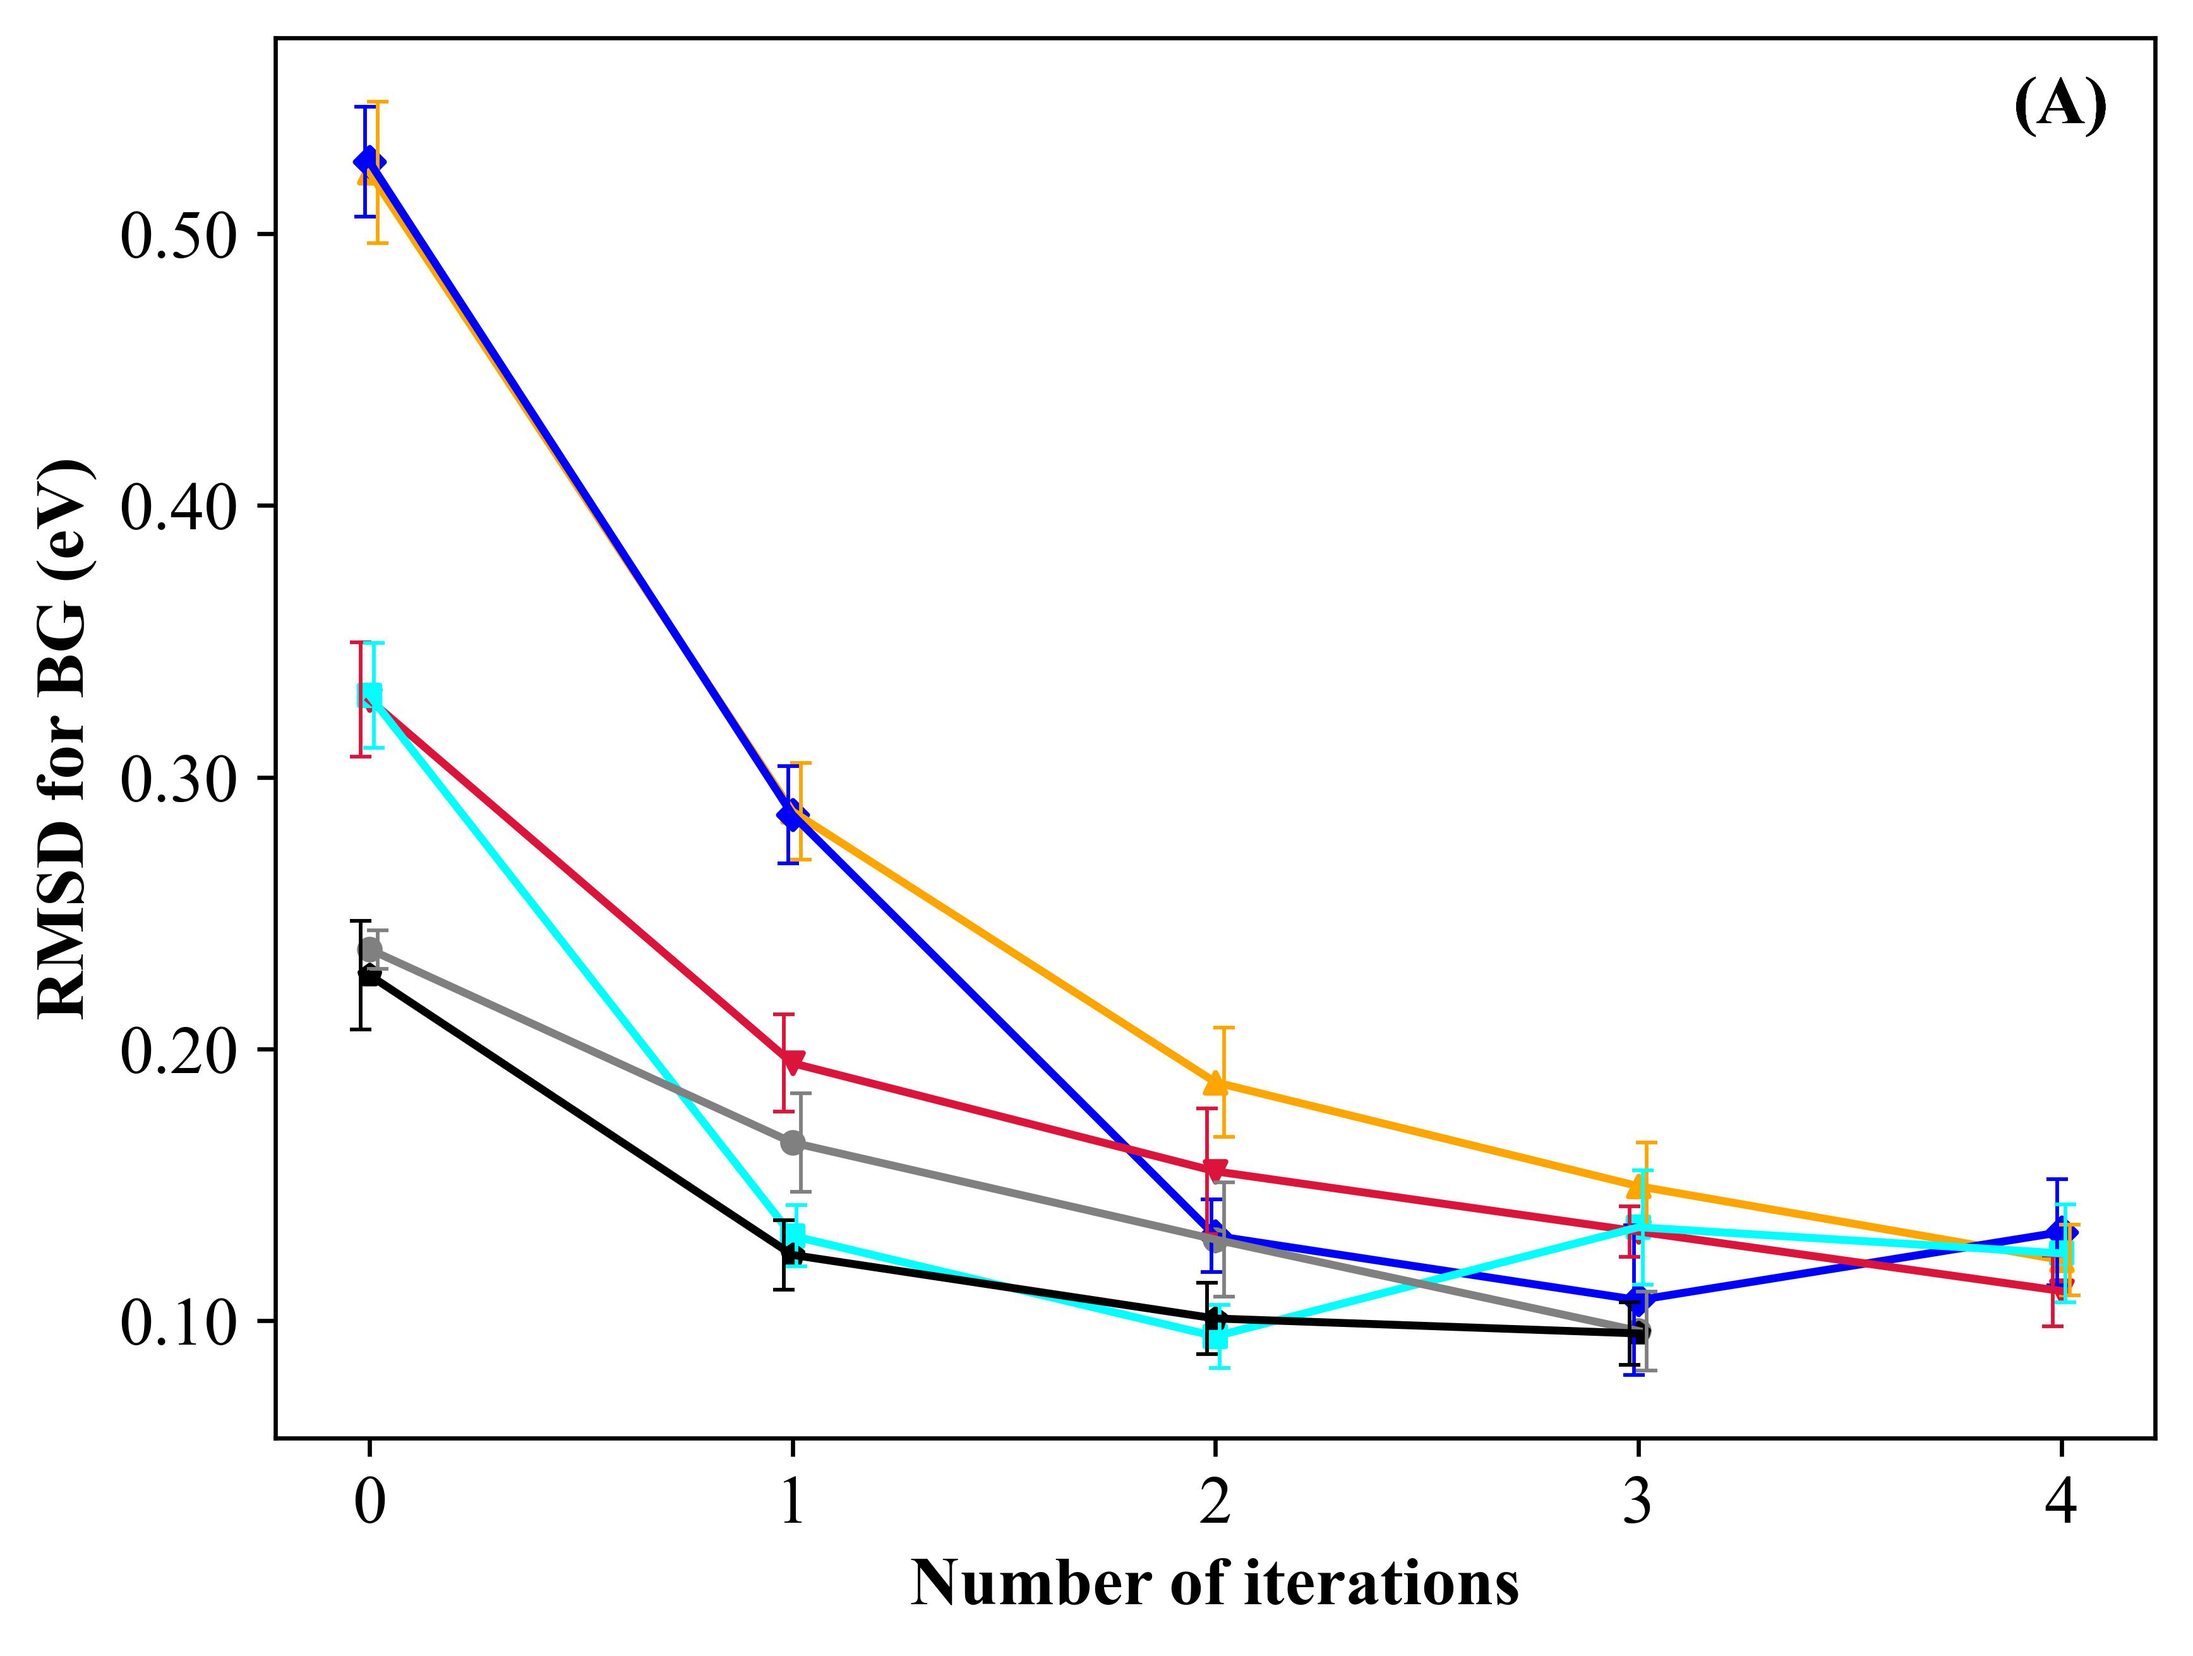
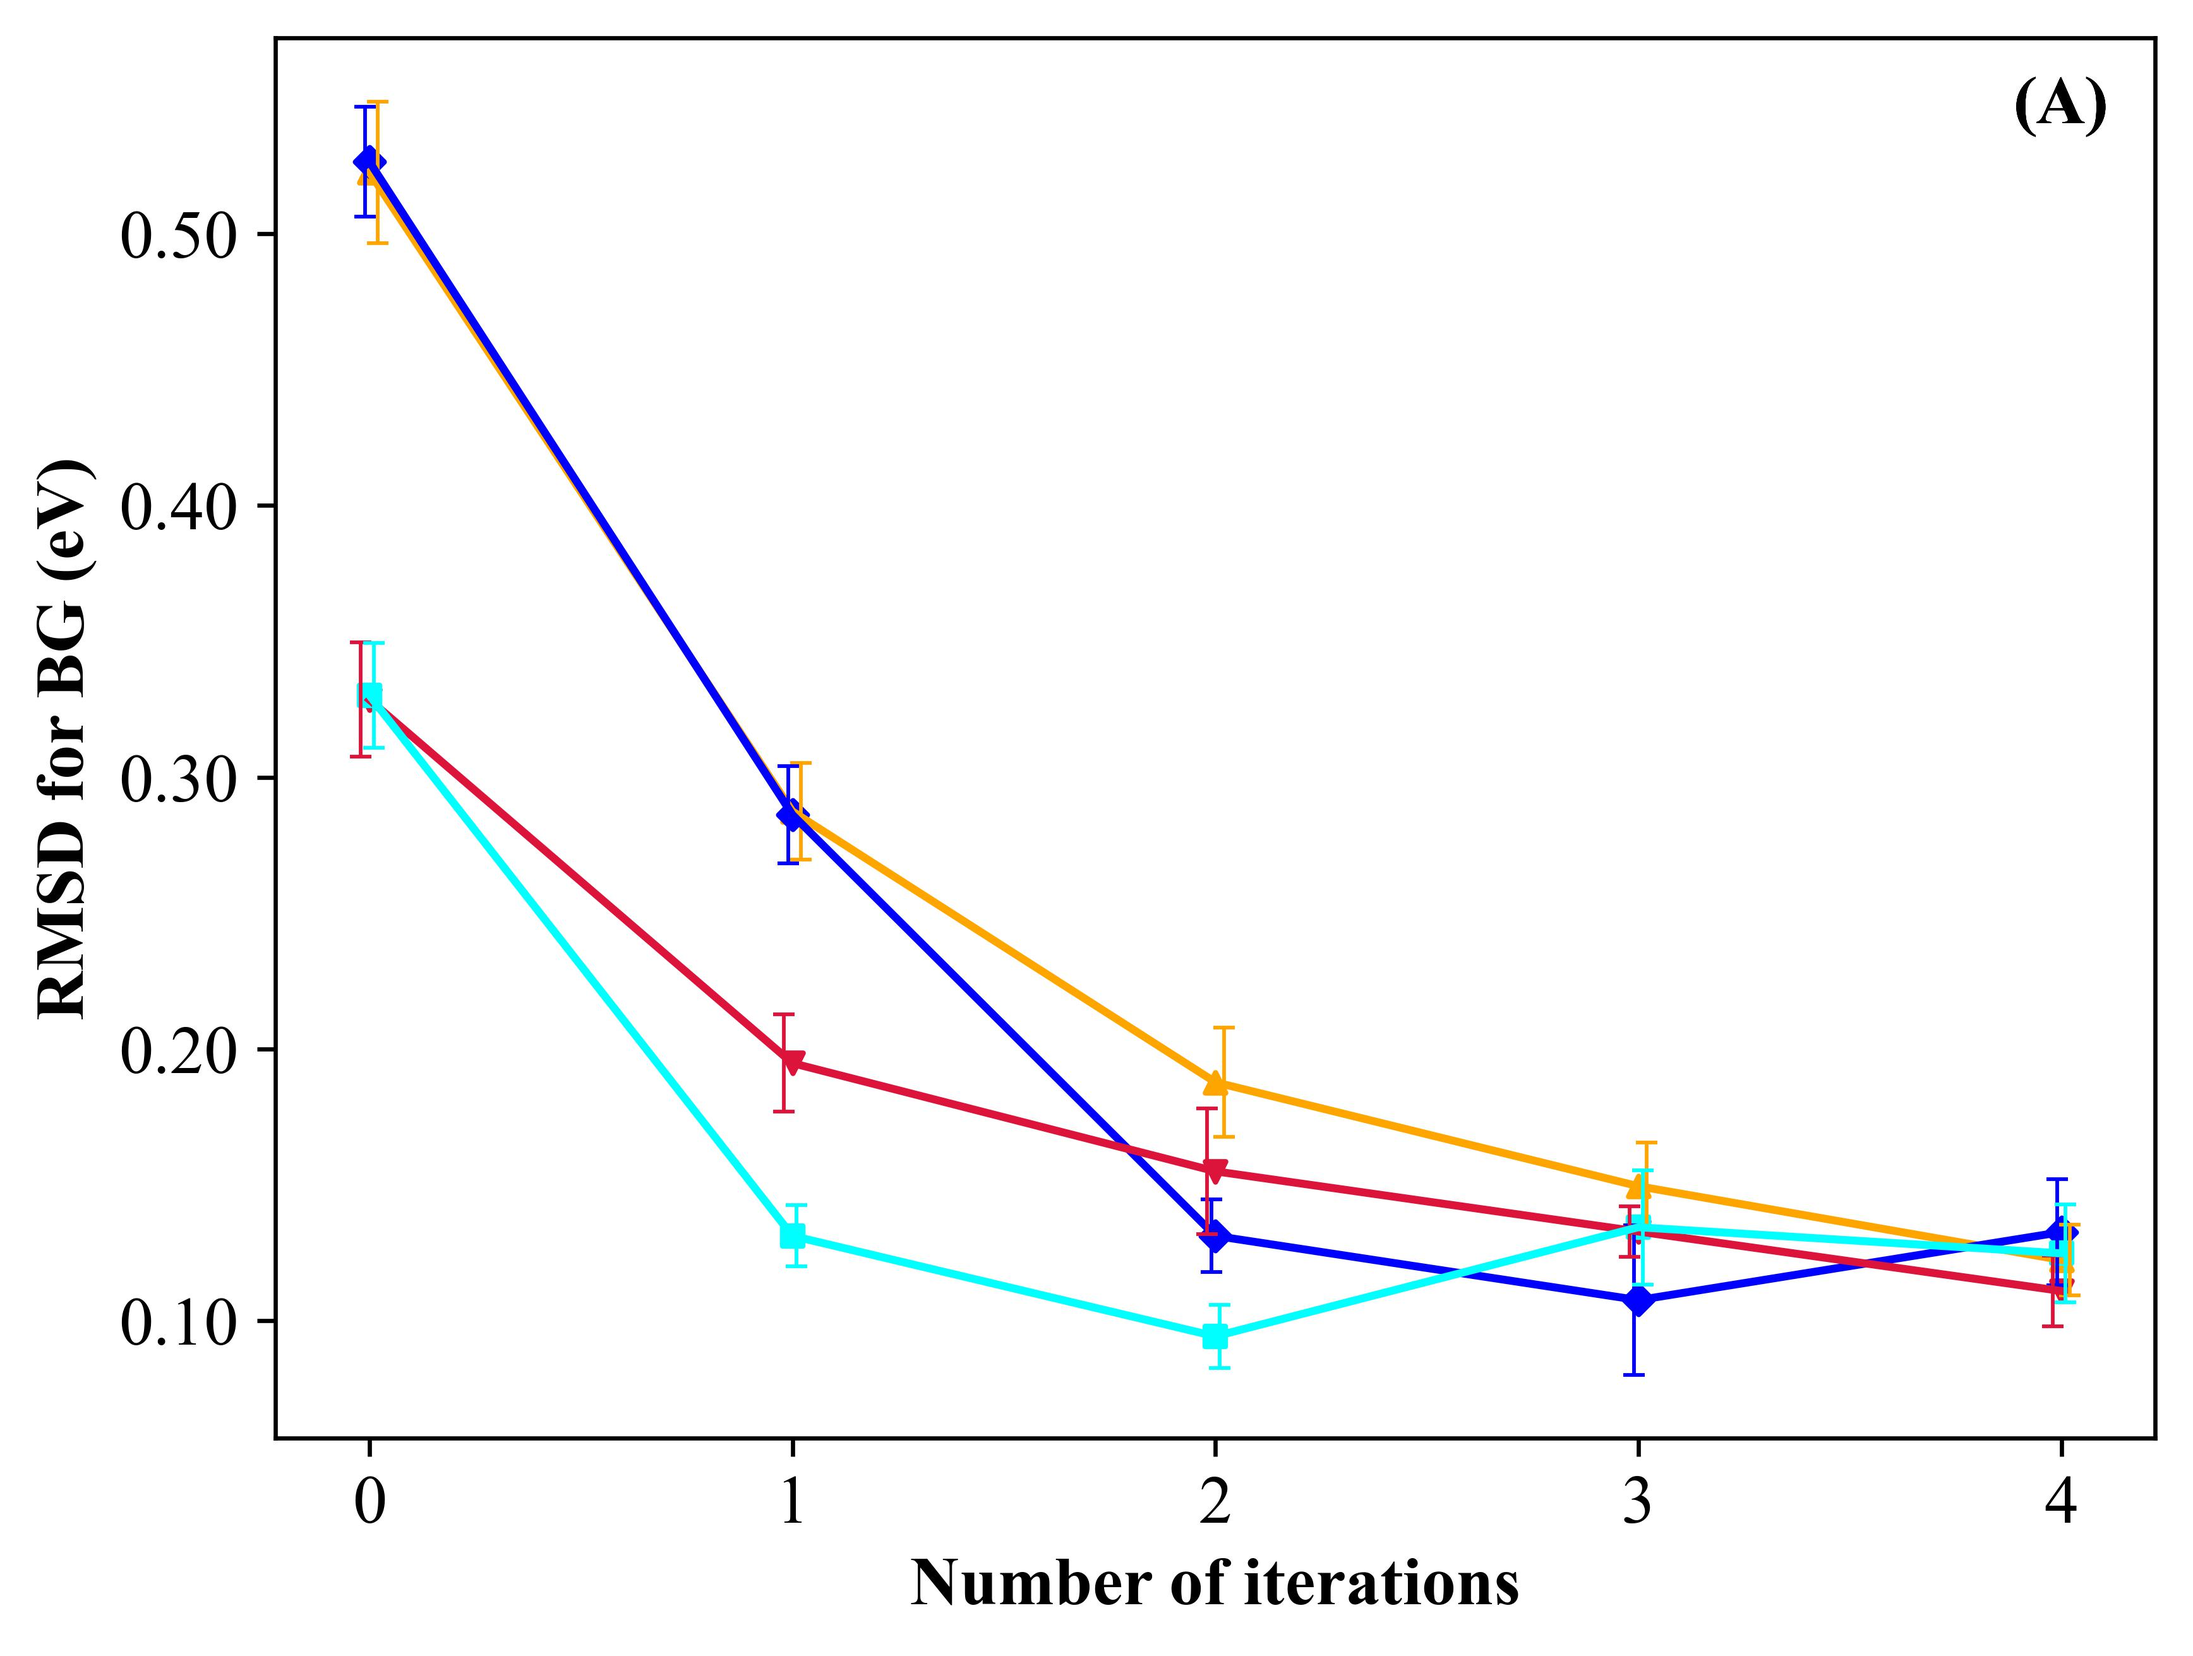
m

diff --git a/experiments/plot_vs_radius.py b/experiments/plot_vs_radius.py
@@ -1,0 +1,100 @@
+import warnings
+warnings.filterwarnings("ignore", category=UserWarning)
+
+import sys, os
+path = os.path.dirname(os.path.realpath(__file__)).split("\\")
+sys.path.append("\\".join(path[:-1]))
+
+import time
+import numpy as np
+import pickle
+
+from utils.plot_utility_v3 import scatter_plot, font_legend, annotate
+
+#for data in ["mixed","pah","subst"]:
+
+data = "mixed"
+num_iters = list(range(0,11,1))
+
+with open("\\".join(path[:-1]) + "\\vs_ecfp_radius_"+ data+".pkl","rb") as handle:
+    result = pickle.load(handle)
+
+std = np.std(result,axis= 0)
+result = np.mean(result,axis= 0)
+
+elec_prop_list = ["BG","EA","IP"]
+method_list = [
+    "RR", "GPR"
+    #"WL-AD/RR","WL-AD/KRR"
+    ]
+
+color = [
+    "orange","blue",
+    #"crimson","cyan",
+    #"gray","black"
+    ]
+
+markers = [
+    "^","D",
+    "v","s",
+    "o","p"]
+
+plots = [scatter_plot() for elec_prop in ["BG","EA","IP"]]
+notation = ["(A)","(B)","(C)"]
+
+shifted = [0.02,-0.01,-0.02,0.01,0.02,-0.02]
+
+for e,elec_prop in enumerate(elec_prop_list):
+    for j,method in enumerate(method_list):
+        if j > 3:
+            continue
+        else:
+            n = len(num_iters)
+
+        plots[e].ax.errorbar(
+            np.array(num_iters[:n])+shifted[j],
+            result[e+j*len(elec_prop_list),:n],
+            std[e+j*len(elec_prop_list),:n],
+            color = color[j],
+            elinewidth = 0.7,
+            capthick = 0.7,
+            capsize = 2.0,
+            fmt = 'none'
+            )
+
+        plots[e].add_plot(
+            num_iters[:n],
+            result[e+j*len(elec_prop_list),:n],
+            plot_line = True, label = method,
+            scatter_color = color[j], scatter_marker = markers[j],
+            line_color = color[j],
+            xticks_format = 0, x_major_tick = 1,
+            xlabel = "Number of iterations",
+            ylabel = "RMSD for {} (eV)".format(elec_prop),
+            )
+
+        plots[e].ax.text(
+            0.95,0.95,
+            notation[e],
+            ha='center', va='center', 
+            transform=plots[e].ax.transAxes,
+            **annotate
+            )
+
+for e,elec_prop in enumerate(elec_prop_list):
+    if e == 1:
+        plots[e].ax.legend(
+            loc = "center left",
+            bbox_to_anchor=(1.04,0.5), borderaxespad=0,
+            prop = font_legend,
+            )
+    plots[e].save_fig("\\".join(path)+"\\[result]\\vs_ecfp_radius_"+data+"_"+elec_prop+".jpeg")
+
+
+
+
+
+
+
+
+

diff --git a/vs_radius.py b/vs_radius.py
@@ -1,0 +1,77 @@
+import sys, os
+path = os.path.dirname(os.path.realpath(__file__)).split("\\")
+print("\\".join(path[:-1]))
+sys.path.append("\\".join(path[:-1]))
+
+from tqdm import tqdm
+import time
+import numpy as np
+import pickle
+
+from data.data import ReducedData, stratified_sampling
+from utils.criterion import RMSD
+
+from pipeline import model_getter, graph_getter, data_splitter, ECFPVectorizer
+
+N = 10
+data = "mixed"
+elec_prop_list = ["BG","EA","IP"]
+num_iters = list(range(0,8,1))
+random_state = 2022
+
+method_list = [
+    "rr","gpr"
+    ]
+
+result = np.zeros((
+    N,len(method_list)*len(elec_prop_list),
+    len(num_iters)))
+
+if data == "mixed":
+    data_generator = ReducedData(
+        N = 1000, seed = random_state, path = "data",
+        pah_only = False, subst_only = False)
+elif data == "pah":
+    data_generator = ReducedData(
+        N = 1000, seed = random_state, path = "data",
+        pah_only = True, subst_only = False)
+elif data == "subst":
+    data_generator = ReducedData(
+        N = 1000, seed = random_state, path = "data",
+        pah_only = False, subst_only = True)
+
+for i in range(N):
+    print("Run #: {}".format(i))
+
+    train_set, test_set = data_splitter(
+        data_generator, train_split = 0.7, random_state = random_state)
+
+    for j, method in enumerate(method_list):
+
+        for k,num_iter in tqdm(enumerate(num_iters)):
+            regress_model = method
+            vectorizer = ECFPVectorizer(num_iter = num_iter,len_fp = 1024)
+
+            train_X = vectorizer.transform(train_set.loc[:,"smiles"])
+            test_X = vectorizer.transform(test_set.loc[:,"smiles"])
+
+            for e,elec_prop in enumerate(elec_prop_list):
+                train_Y = np.array(train_set.loc[:,elec_prop])
+                test_Y = np.array(test_set.loc[:,elec_prop])
+
+                regressor = model_getter(regress_model,grid_search=True)
+
+                regressor.fit(train_X,train_Y)
+
+                test_Y_hat = regressor.predict(test_X)
+                test_rmsd = RMSD(test_Y_hat, test_Y)
+
+                #print(e+j*len(elec_prop_list))
+
+                result[i,e+j*len(elec_prop_list), k] += test_rmsd 
+
+with open("\\".join(path) + "\\vs_ecfp_radius_"+data+".pkl","wb") as handle:
+    pickle.dump(result,handle)
+
+
+

diff --git a/experiments/plot_active_learning.py b/experiments/plot_active_learning.py
@@ -11,28 +11,29 @@ import pickle
 
 from utils.plot_utility_v3 import scatter_plot, font_legend, annotate
 
-data = "pah"
+data = "mixed"
 kernel_str = "subtree"
 #for data in ["mixed","pah","subst"]:
-#with open("\\".join(path) + "\\experiments_active_learning_"+kernel_str+"_"+ data+".pkl","rb") as handle:
-with open("\\".join(path) + "\\active_learning_"+kernel_str+"_"+ data+".pkl","rb") as handle:
+with open("\\".join(path) + "\\experiments_active_learning_"+kernel_str+"_"+ data+".pkl","rb") as handle:
+#with open("\\".join(path) + "\\active_learning_"+kernel_str+"_"+ data+".pkl","rb") as handle:
     result = pickle.load(handle)
-print(np.array(result["active"]))
 if data == "subst":
     start = 0
 elif data == "mixed":
-    start = 0
+    start = 7
 else:
     start = 0
 
 train_set_sizes = np.array(result["train_set_size"])
 shift = np.ones((len(train_set_sizes[start:])))
 
-error_a = np.mean(result["active"],axis= 0)
-std_a = np.std(result["active"],axis= 0)
+active_result = np.squeeze(np.array(result["active"]),axis=0)
+error_a = np.mean(active_result,axis=0)
+std_a = np.std(active_result,axis= 0)
 
-error_r = np.mean(result["random"],axis=0)
-std_r = np.std(result["random"],axis=0)
+random_result = np.squeeze(np.array(result["random"]),axis=0)
+error_r = np.mean(random_result,axis=0)
+std_r = np.std(random_result,axis=0)
 
 for i, elec_prop in enumerate(["Bandgap","EA","IP"]):
     """
@@ -53,6 +54,9 @@ for i, elec_prop in enumerate(["Bandgap","EA","IP"]):
 
         )
 
+    print(train_set_sizes[start])
+    print(train_set_sizes[0])
+    print(train_set_sizes[-1])
     plot.ax.fill_between(
         train_set_sizes[start:], 
         error_a[start:,i] - std_a[start:,i],
@@ -87,4 +91,4 @@ for i, elec_prop in enumerate(["Bandgap","EA","IP"]):
         ncol = 2
         )
 
-    plot.save_fig("experiments\\active_learning_"+data+"_"+elec_prop+".jpeg",dpi =600)
+    plot.save_fig("experiments\\active_learning_"+kernel_str+"_"+data+"_"+elec_prop+".jpeg",dpi =600)

diff --git a/active_pipeline.py b/active_pipeline.py
@@ -113,11 +113,11 @@ def active_learning_pkl(kernel_str, data_type, repeat):
 
     model, hyperp = model_getter("gpr")
     initial_split = 0.3
+    hyperp["alpha"].remove(5e-2)
     if data_type == "subst":
         loops = 31
         steps = 14
         num_iter = [2]
-        #hyperp["alpha"].remove(5e-2)
 
     elif data_type == "pah":
         loops = 30
@@ -125,10 +125,10 @@ def active_learning_pkl(kernel_str, data_type, repeat):
         num_iter = [2,3]
 
     elif data_type == "mixed":
-        loops = 32
-        steps = 7
-        num_iter = [2,3]
-        #hyperp["alpha"].remove(5e-2)
+        loops = 50
+        steps = 4
+        num_iter = [2]
+        initial_split = 0.45
 
     data_generator = data_selector(data_type, "data",2020)
     if kernel_str == "subtree":

diff --git a/experiments/plot_vs_num_iter.py b/experiments/plot_vs_num_iter.py
@@ -24,12 +24,14 @@ for data in ["mixed","pah","subst"]:
     method_list = [
         "WL-A/RR", "WL-A/KRR",
         "WL-AB/RR", "WL-AB/KRR",
-        "WL-AD/RR","WL-AD/KRR"]
+        #"WL-AD/RR","WL-AD/KRR"
+        ]
 
     color = [
         "orange","blue",
         "crimson","cyan",
-        "gray","black"]
+        #"gray","black"
+        ]
 
     markers = [
         "^","D",
@@ -44,10 +46,7 @@ for data in ["mixed","pah","subst"]:
     for e,elec_prop in enumerate(elec_prop_list):
         for j,method in enumerate(method_list):
             if j > 3:
-                if data == "pah":
-                    n = 4
-                elif data != "pah":
-                    n = 3
+                continue
             else:
                 n = len(num_iters)
 

diff --git a/pipeline.py b/pipeline.py
@@ -93,7 +93,7 @@ def model_getter(model,kernel = None,grid_search = False,name = None):
         kernel2 = RBF() * ConstantKernel(1.0)
         regressor,param_grid = ModGaussianProcessRegressor, {
                 "kernel": [kernel2] ,
-                "alpha" : [5e-3],
+                "alpha" : [5e-3,5e-2],
                 "_max_iter":[20000]
                 }
     else:

diff --git a/vs_num_iter.py b/vs_num_iter.py
@@ -14,7 +14,7 @@ from wl.labelling_graph import (WLSubtree, WLEdge, WLShortestPath,
 
 from pipeline import model_getter, graph_getter, data_splitter
 
-data = "subst"
+data = input("data name?")
 N = 10
 random_state = 2022
 
